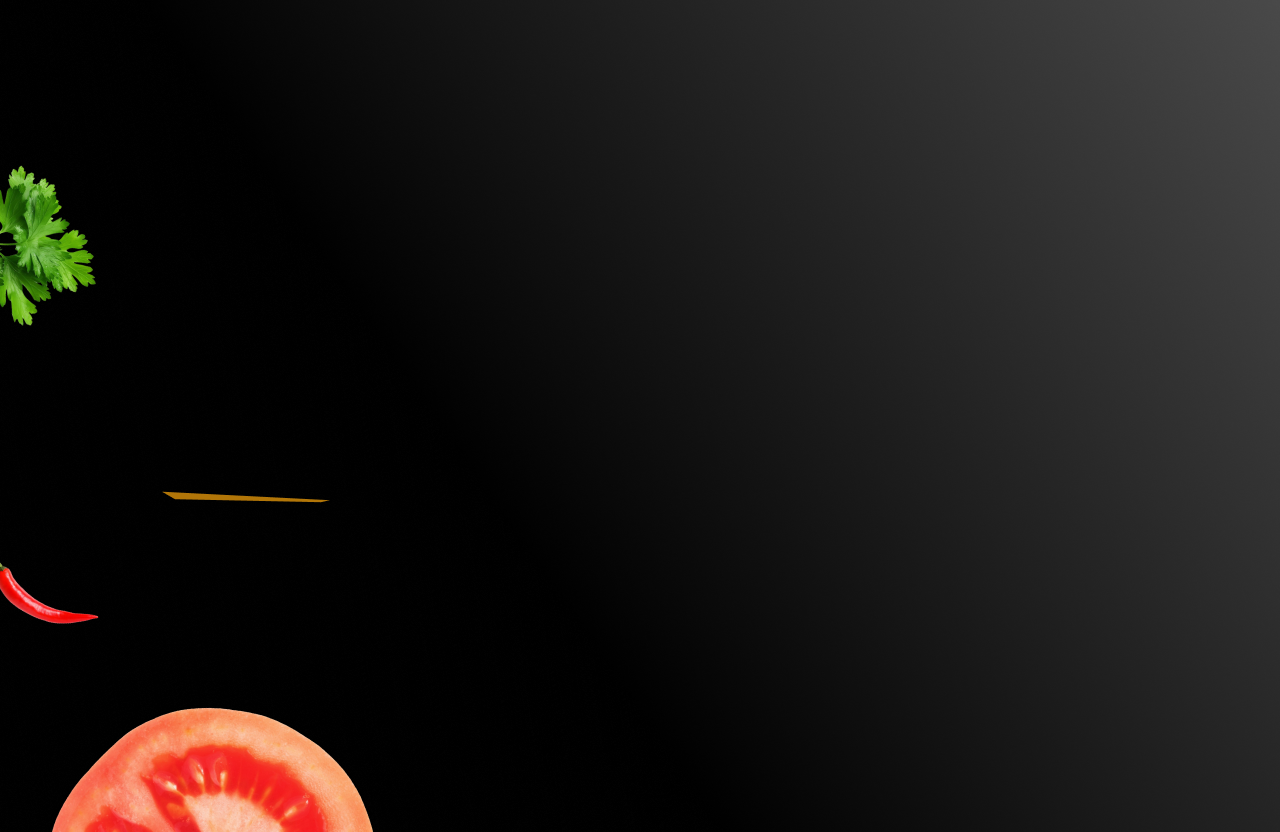
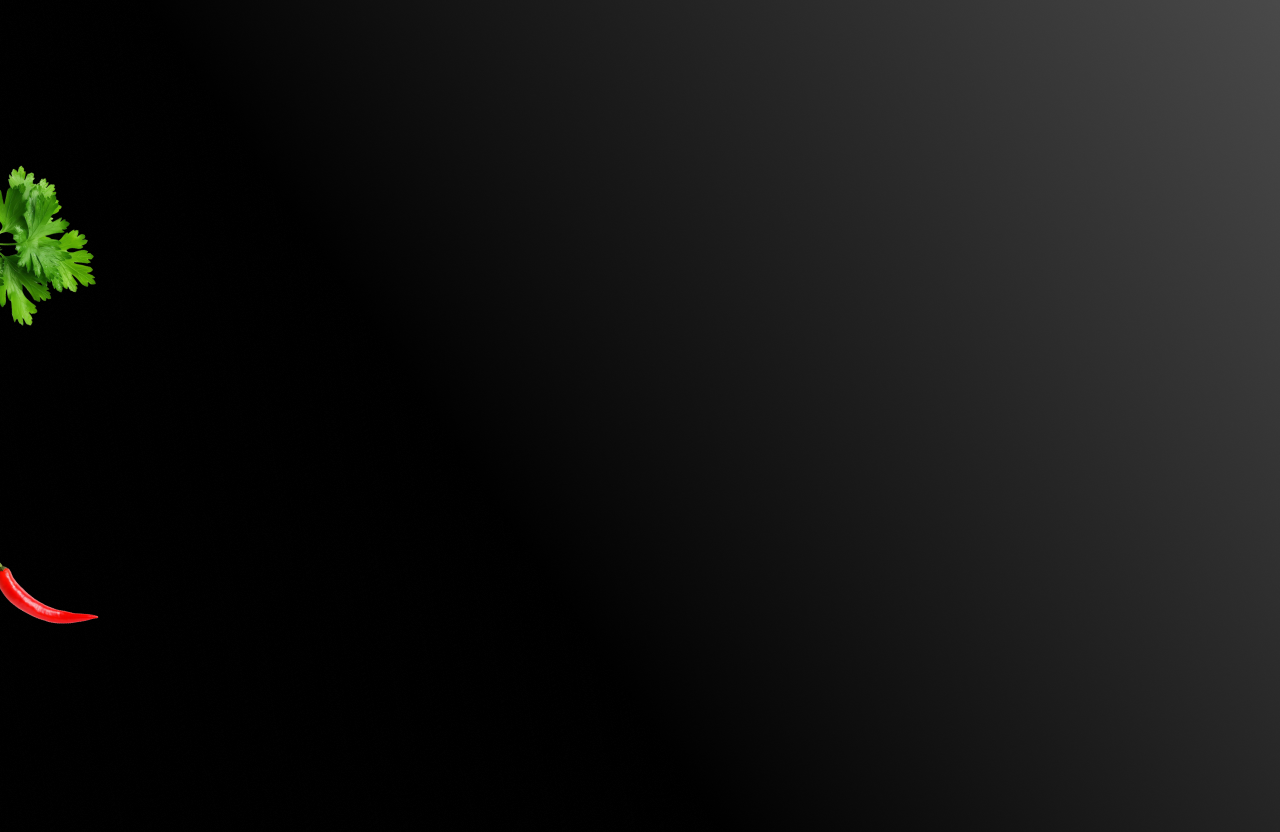
update on images

Changed region(s): [[0.0312, 0.8438, 0.3125, 1.0], [0.125, 0.5938, 0.25, 0.625]]

diff --git a/src/Components/Header/Header.jsx b/src/Components/Header/Header.jsx
@@ -1,7 +1,8 @@
 import React, { useState } from 'react';
+import "./Header.css";
 import {Link , NavLink , useNavigate} from "react-router-dom";
 // image
-import homeImage from "../../Image/home.png";
+import homeImage from "../../Image/groupHome.png";
 import bgHomeImage from "../../Image/bgHome.png";
 // icon
 import { GoArrowDown } from "react-icons/go";
@@ -23,7 +24,7 @@ const Header = () => {
     }
 
     return (
-      <section className='bg-local overflow-hidden' style={{backgroundImage: `url(${bgHomeImage})`}}>
+      <section className='bg-local overflow-hidden allSecHome' style={{backgroundImage: `url(${bgHomeImage})`}}>
       
       {/* NavBar */}
       <header>    
@@ -67,8 +68,8 @@ const Header = () => {
 
       {/* Home */}
       <section className='lg:flex lg:my-[10%] gird lg:justify-between lg:grid-cols-2 text-white px-[7%]'>
-        <div className='col-span-1 py-7'>
-          <p className='text-4xl font-bold text-center'>Welcome To <br />
+        <div className='col-span-1 py-14'>
+          <p className='text-4xl max-md:text-3xl max-lg:place-content-center font-bold text-center place-content-start'>Welcome To <br />
           Our <span className='text-[#ED0707] border-solid border-b-2 rounded border-yellow'>House</span> Foods</p>
           <div className='text-1xl text-center mt-5 lg:float-end'>
             <p>Order Now</p>
@@ -78,7 +79,7 @@ const Header = () => {
         </div>
         <div className='col-span-1'>
           {/* Add in src ==> Group for images */}
-          <img className='w-96 place-self-center mt-[-10%]' src={homeImage} alt="..." />
+          <img className='w-8/12 max-lg:place-self-center place-self-end mt-[-10%] duration-700' src={homeImage} alt="..." />
         </div>
       </section>
 

diff --git a/src/Components/Header/Header.css b/src/Components/Header/Header.css
@@ -1,0 +1,4 @@
+.allSecHome {
+    background-repeat: no-repeat;
+    background-size: cover;
+}
